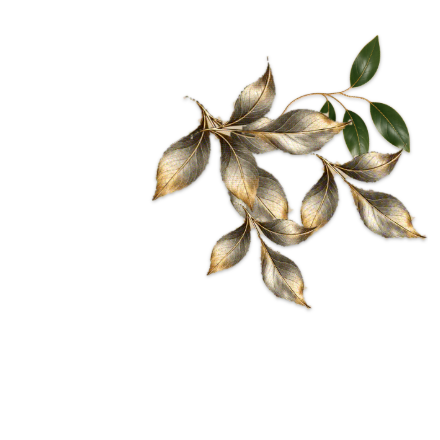
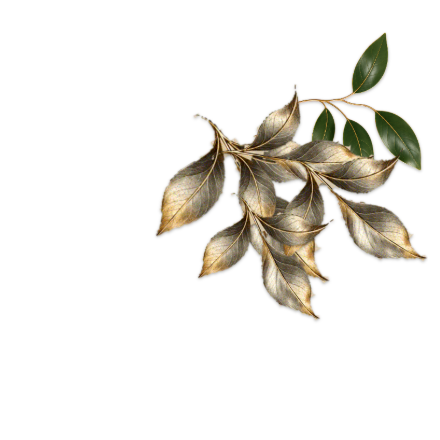
Make leaves larger everywhere

Changed region(s): [[0.325, 0.0591, 0.975, 0.7386]]

diff --git a/src/components/Footer.jsx b/src/components/Footer.jsx
@@ -11,7 +11,7 @@ const SEGS = [
   [[900, 22], [1000, 6], [1100, 6], [1200, 22]],
 ];
 const bez = (P, t) => { const u = 1 - t; return [0, 1].map((k) => u * u * u * P[0][k] + 3 * u * u * t * P[1][k] + 3 * u * t * t * P[2][k] + t * t * t * P[3][k]); };
-const LEAF_SIZE = { olive: 52, gold: 52, pair: 46 };
+const LEAF_SIZE = { olive: 74, gold: 74, pair: 66 };
 const KINDS = ['gold', 'olive', 'pair', 'olive', 'gold'];
 const VINE = Array.from({ length: 18 }, (_, i) => {
   const pos = (i + 0.5) / 18 * SEGS.length;
@@ -31,13 +31,13 @@ const VINE = Array.from({ length: 18 }, (_, i) => {
 /** A vine that grows along the top of the footer: the line draws itself, then leaves unfurl from points on it. */
 function Vine() {
   return (
-    <svg className="footer__vine" viewBox="0 0 1200 110" preserveAspectRatio="xMidYMid slice" aria-hidden="true">
-      <g transform="translate(0 36)">
+    <svg className="footer__vine" viewBox="0 0 1200 150" preserveAspectRatio="xMidYMid slice" aria-hidden="true">
+      <g transform="translate(0 54)">
         <motion.path d="M0 22 C100 6 180 38 300 22 S500 6 600 22 S800 38 900 22 S1100 6 1200 22" fill="none" stroke="var(--sun)" strokeWidth="2" strokeLinecap="round" initial={{ pathLength: 0 }} whileInView={{ pathLength: 1 }} viewport={{ once: true, margin: '-40px' }} transition={{ duration: 2.4, ease: [0.22, 1, 0.36, 1] }} />
         {VINE.map((l) => (
           <g key={l.i} transform={`translate(${l.x.toFixed(1)} ${l.y.toFixed(1)}) rotate(${l.rot.toFixed(1)})`}>
             <motion.g style={{ transformBox: 'view-box', transformOrigin: '0px 0px' }} initial={{ scale: 0 }} whileInView={{ scale: 1 }} viewport={{ once: true, margin: '-40px' }} transition={{ type: 'spring', stiffness: 120, damping: 12, delay: 0.4 + l.i * 0.12 }}>
-              <image href={`/decor/leaf-${l.kind}.png?v=10`} x={-l.size / 2} y={-l.size + 4} width={l.size} height={l.size} preserveAspectRatio="xMidYMax meet" />
+              <image href={`/decor/leaf-${l.kind}.png?v=11`} x={-l.size / 2} y={-l.size + 4} width={l.size} height={l.size} preserveAspectRatio="xMidYMax meet" />
             </motion.g>
           </g>
         ))}

diff --git a/src/components/DecorFrame.jsx b/src/components/DecorFrame.jsx
@@ -14,10 +14,10 @@ function framePath(w, h, radii) {
 
 // A small leafy sprig drawn for the top-left corner; the other corners mirror it. Leaves unfurl one after another.
 const BLOOMS = [
-  { x: 8, y: 33, s: 40, v: 'gold', r: -40 },
-  { x: 14, y: 21, s: 48, v: 'olive', r: -5 },
-  { x: 26, y: 12, s: 44, v: 'gold', r: 35 },
-  { x: 40, y: 8, s: 38, v: 'olive', r: 65 },
+  { x: 8, y: 33, s: 52, v: 'gold', r: -40 },
+  { x: 14, y: 21, s: 62, v: 'olive', r: -5 },
+  { x: 26, y: 12, s: 57, v: 'gold', r: 35 },
+  { x: 40, y: 8, s: 50, v: 'olive', r: 65 },
 ];
 const MIRROR = { tl: 'none', tr: 'scaleX(-1)', br: 'scale(-1,-1)', bl: 'scaleY(-1)' };
 
@@ -68,7 +68,7 @@ export default function DecorFrame({ inset = 12, radii = [2, 2, 2, 2], corners =
   const h = Math.max(0, box.h);
   const big = w >= 220 && h >= 170;
   const size = Math.max(34, Math.min(64, Math.min(w, h) / 6));
-  const floraSize = Math.max(76, Math.min(floraMax, Math.min(w, h) / 2.1));
+  const floraSize = Math.max(76, Math.min(floraMax, Math.min(w, h) / 1.9));
   const margin = floraSize * 0.82;
   const edge = (len) => Math.max(0, Math.floor((len - margin * 2) / 74));
   const spots = [];
@@ -119,7 +119,7 @@ export default function DecorFrame({ inset = 12, radii = [2, 2, 2, 2], corners =
       {big && corners.filter((c) => !flora.includes(c) && !floraSmall.includes(c)).map((c) => <Sprig key={`${c}-${replayKey}`} corner={c} size={size} offset={4} on={on} delay={delay + 1.1} reduce={reduce} />)}
       {big && spots.slice(0, 26).map((p, i) => (
         <span key={`g${i}`} className="decor-garland" style={{ left: p.x, top: p.y, '--d': `${delay + 1.5 + i * 0.045}s` }}>
-          <span>{i % 3 === 2 ? <i className="decor-garland__dot" /> : <GarlandBlossom index={i} size={i % 2 ? 32 : 40} />}</span>
+          <span>{i % 3 === 2 ? <i className="decor-garland__dot" /> : <GarlandBlossom index={i} size={i % 2 ? 42 : 52} />}</span>
         </span>
       ))}
       {big && floraSmall.map((c) => <Flora key={`s${c}`} corner={c} size={floraSize * 0.64} offset={floraOffset} on={on} delay={delay + 1.35} />)}

diff --git a/src/components/Ambient.jsx b/src/components/Ambient.jsx
@@ -52,17 +52,17 @@ export default function SectionDecor({ tone = 'light' }) {
       {tone === 'dark' ? (
         <>
           {SPOTS.map((p, i) => <span key={i} className="ambient__spot" style={{ left: `${p.x}%`, top: `${p.y}%`, width: p.s, height: p.s, animationDuration: `${p.d}s` }} />)}
-          <Flora corner="tr" size={170} offset={6} on={live} className="flora--edge" />
-          <Flora corner="bl" size={170} offset={6} on={live} delay={0.4} className="flora--edge flora--edge-br" />
+          <Flora corner="tr" size={210} offset={6} on={live} className="flora--edge" />
+          <Flora corner="bl" size={210} offset={6} on={live} delay={0.4} className="flora--edge flora--edge-br" />
           {live && <Petals />}
           {live && FALL.filter((_, i) => i % 3 !== 2).map((l, i) => (
-            <Blossom key={i} className="ambient__leaf ambient__flower" variant={i % 2 ? 'gold' : 'olive'} size={l.s + 44} style={{ left: `${l.x}%`, '--dx': `${l.dx}px`, '--r': `${l.r}deg`, animationDuration: `${l.d}s`, animationDelay: `${l.t}s` }} />
+            <Blossom key={i} className="ambient__leaf ambient__flower" variant={i % 2 ? 'gold' : 'olive'} size={l.s + 64} style={{ left: `${l.x}%`, '--dx': `${l.dx}px`, '--r': `${l.r}deg`, animationDuration: `${l.d}s`, animationDelay: `${l.t}s` }} />
           ))}
         </>
       ) : (
         <>
-          <Flora corner="tl" size={180} offset={6} on={live} className="flora--edge" />
-          <Flora corner="br" size={180} offset={6} on={live} delay={0.4} className="flora--edge flora--edge-br" />
+          <Flora corner="tl" size={220} offset={6} on={live} className="flora--edge" />
+          <Flora corner="br" size={220} offset={6} on={live} delay={0.4} className="flora--edge flora--edge-br" />
           {live && <Petals />}
         </>
       )}

diff --git a/src/styles.css b/src/styles.css
@@ -520,7 +520,7 @@ body { background: radial-gradient(900px 520px at 100% -8%, rgba(212, 175, 55, .
 .section--moss { background: radial-gradient(70% 90% at 100% 0%, rgba(212, 175, 55, .22), transparent 62%), linear-gradient(160deg, #4B6B46, var(--moss) 50%, #2F4730); }
 .page-hero.on-dark, .page-hero--dark { background-image: radial-gradient(60% 90% at 90% 0%, rgba(74, 91, 39, .5), transparent 64%), radial-gradient(40% 60% at 0% 100%, rgba(212, 175, 55, .14), transparent 62%); }
 .footer { position: relative; background: radial-gradient(60% 100% at 50% 0%, rgba(212, 175, 55, .10), transparent 70%), var(--ink-2); }
-.footer__vine { display: block; width: 100%; height: 110px; margin-top: -1px; }
+.footer__vine { display: block; width: 100%; height: 150px; margin-top: -1px; }
 
 .has-ambient { position: relative; }
 .ambient { position: absolute; inset: 0; overflow: hidden; pointer-events: none; z-index: 1; }
@@ -583,7 +583,7 @@ body { background: radial-gradient(900px 520px at 100% -8%, rgba(212, 175, 55, .
 .ribbon:hover .ribbon__track { animation-play-state: paused; }
 .ribbon__row { display: flex; align-items: center; flex: none; }
 .ribbon__item { font-family: var(--font-display); font-size: clamp(22px, 3vw, 34px); padding: 0 30px; white-space: nowrap; }
-.ribbon__star { width: 34px; height: 34px; flex: none; color: var(--sun); animation: star-spin 9s linear infinite; }
+.ribbon__star { width: 48px; height: 48px; flex: none; color: var(--sun); animation: star-spin 9s linear infinite; }
 @keyframes ribbon-scroll { to { transform: translateX(-33.3333%); } }
 @keyframes star-spin { to { transform: rotate(360deg); } }
 .ribbon.is-static .ribbon__track { animation: none; width: auto; flex-wrap: wrap; padding: 0 var(--gutter); }

diff --git a/src/cms/sections/home.jsx b/src/cms/sections/home.jsx
@@ -46,7 +46,7 @@ function HeroSlides({ base, props: p }) {
       onFocus={() => setPaused(true)}
       onBlur={() => setPaused(false)}
     >
-      <DecorFrame className="hero-card__frame" inset={-16} radii={narrow ? [136, 42, 42, 42] : [236, 50, 50, 50]} corners={['tr', 'br', 'bl']} flora={['tr', 'br']} floraSmall={['bl']} floraMax={narrow ? 96 : 150} garland={!narrow} delay={0.6} replayKey={idx} />
+      <DecorFrame className="hero-card__frame" inset={-16} radii={narrow ? [136, 42, 42, 42] : [236, 50, 50, 50]} corners={['tr', 'br', 'bl']} flora={['tr', 'br']} floraSmall={['bl']} floraMax={narrow ? 100 : 152} garland={!narrow} delay={0.6} replayKey={idx} />
       <span className="hero-card__glow" aria-hidden="true" />
       <span className="hero-card__dots" aria-hidden="true" />
       <div className="hero-slides">

diff --git a/src/components/Flora.jsx b/src/components/Flora.jsx
@@ -2,7 +2,7 @@
 // baked from the vector source in FloraArt.jsx so the browser only moves flat pictures (cheap) instead of painting hundreds of shapes.
 const MIRROR = { tl: 'none', tr: 'scaleX(-1)', br: 'scale(-1,-1)', bl: 'scaleY(-1)' };
 const ORIGIN = { tl: '0 0', tr: '100% 0', br: '100% 100%', bl: '0 100%' };
-const V = '10'; // bump when the baked art changes (the server caches images for a year)
+const V = '11'; // bump when the baked art changes (the server caches images for a year)
 const LAYERS = [[`/decor/flora-1.png?v=${V}`, 0], [`/decor/flora-2.png?v=${V}`, 0.5], [`/decor/flora-3.png?v=${V}`, 1]];
 
 /** A bouquet for a frame or section corner. Layers bloom in turn (CSS) once `on`, then the bouquet sways. */

diff --git a/src/cms/sections/marquee.jsx b/src/cms/sections/marquee.jsx
@@ -11,7 +11,7 @@ export function Marquee({ base, props: p }) {
   const run = (copy) => items.map((it, i) => (
     <Fragment key={`${copy}-${i}`}>
       <span className="ribbon__item">{copy === 0 ? <Txt path={`${base}.items.${i}.text`} /> : it.text}</span>
-      <Blossom className="ribbon__star" variant={BLOSSOM_VARIANTS[i % 5]} size={54} />
+      <Blossom className="ribbon__star" variant={BLOSSOM_VARIANTS[i % 5]} size={64} />
     </Fragment>
   ));
   return (
